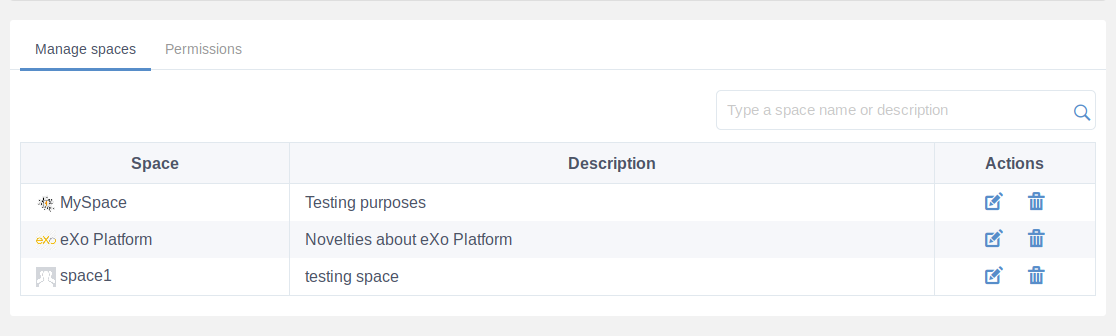
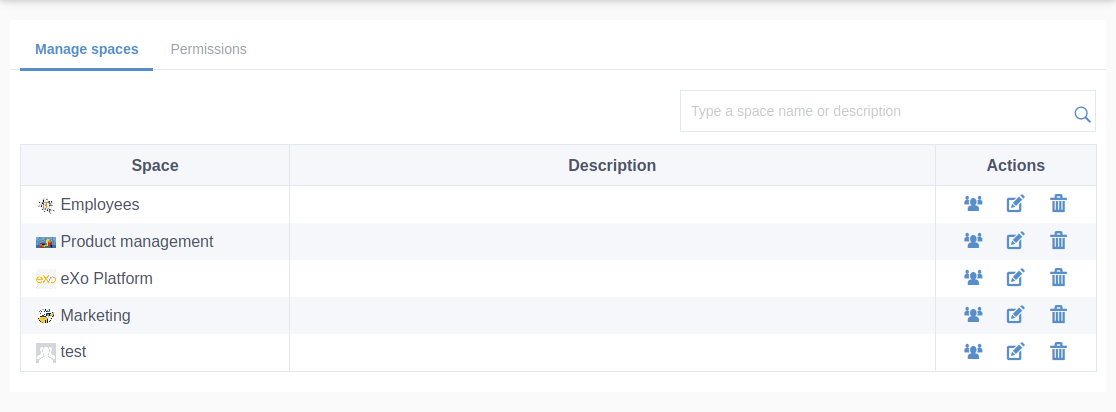
DOC-4367: Add documentation for Group binding drawer

diff --git a/docs/Administration.rst b/docs/Administration.rst
@@ -2481,25 +2481,15 @@ should be sent to you.
 Administrating spaces 
 ======================
 
-It is possible to restrict which users can create and/or manage spaces or use templates
-through an easy to use interface .
-
-|image305|
-
-.. note:: By default, only the super user (i.e. **root**) is allowed to create spaces and templates and only administrators (i.e.
-          ``*:/platform/administrators``) are allowed to manage spaces and templates.
-          
 The spaces administration interface is accessible via the menu Administration --> Spaces.
 
 |image306|
 
-This Spaces menu contains two choices:
+This Spaces menu allows you, as an administrator to:
 
-- "Manage Templates" : Lets an administrator display all space templates available 
-- "Manage Spaces" : Lets an administrator configure permissions for who can :ref:`Create <Create-Space>` or :ref:`Manage <AdministratingSpaces.ManageSpaces>` spaces.
-
-
-
+- Access and display all the available spaces templates via the menu "Manage Templates".
+- Configure and manage permissions for who can :ref:`Create <Create-Space>` or 
+  :ref:`Manage <AdministratingSpaces.ManageSpaces>` spaces via the menu "Manage Spaces".
 
 
 Manage Templates
@@ -2524,27 +2514,29 @@ All templates are presented in a table with:
 Manage Spaces
 ~~~~~~~~~~~~~~~~~~
 
+It is possible to restrict which users can create and/or manage spaces through an easy to use interface .
+
+|image305|
+
+.. note:: By default, only the super user (i.e. **root**) is allowed to create spaces and templates and only administrators (i.e.
+          ``*:/platform/administrators``) are allowed to manage spaces and templates.
+
 This interface contains two tabs:
 
-- "Manage spaces" tab displays the list of spaces and the corresponding actions: edit and delete.
-- "Permissions" tab displays the list of groups who can :ref:`Create <Create-Space>` or :ref:`Manage <AdministratingSpaces.ManageSpaces>` spaces. 
-
-     
-Spaces administration interface allows to :     
-
--  :ref:`Manage spaces <AdministratingSpaces.ManageSpaces>`
--  :ref:`Change permissions <AdministratingSpaces.Permissions>`
+- :ref:`Manage spaces <AdministratingSpaces.ManageSpaces>` tab displays the list of spaces and the corresponding actions: edit, delete and Space binding.
+- :ref:`Permissions <AdministratingSpaces.Permissions>` tab displays the list of groups who can :ref:`Create <Create-Space>` or :ref:`Manage <AdministratingSpaces.ManageSpaces>` spaces. 
 
 .. _AdministratingSpaces.ManageSpaces:
 
 Manage spaces tab
-~~~~~~~~~~~~~~~~~~
+-------------------
 
 |image308|
 
 The "Manage spaces" tab can be seen by users belonging to any group listed in 
 the "Manage spaces" permission of the :ref:`Permissions tab <AdministratingSpaces.Permissions>`. 
 Users with this permission are allowed to edit or delete any space in the platform.
+They are also allowed to add groups binding to any space.
 
 |image307|
 
@@ -2558,9 +2550,10 @@ by the property :ref:`exo.social.spaces.administrators <SpacesAdministration>` i
 .. note:: If the permission is neither defined through the interface nor by configuration, only administrators are
           allowed to access the Manage spaces tab.
           
+.. _EditSpace:
 
 Edit space
------------
+^^^^^^^^^^^^
 
 Users granted with the "Manage Spaces" permission, can edit any space settings by clicking the edit icon |image309| of a specific space.
 The Space Settings page of the target space is then opened in another browser tab.
@@ -2576,8 +2569,10 @@ section for more details.
 
 .. tip: You can find :ref:`here <Manage-Space-Settings>` the possible actions for a space's manager.
 
+.. _DeleteSpace:
+
 Delete space
---------------
+^^^^^^^^^^^^^
 
 Users granted with the Manage Spaces permission, can also :ref:`delete <Delete-Space>` any space of 
 the platform; even the spaces where they are neither a manager nor a member.
@@ -2595,10 +2590,32 @@ A confirmation popup appears to confirm deletion of the space or to cancel
 
 .. warning:: When deleting a space, all its data is also removed and can't be recovered.
 
+.. _BindGroupToSpace:
+
+Space binding
+^^^^^^^^^^^^^^
+
+You can, as an administrator or a :ref:`spaces manager <AdministratingSpaces.ManageSpaces>` member, bind groups to a space
+i.e. add all their members to the space.
+To do so, you should click on the "Space binding" icon |image354|.
+
+A drawer "Add Binding" appears:
+
+|image355|
+
+The drawer contains these components:
+
+-  A text field allowing you to type groups names
+-  "Select from list" icon allowing to open a second level drawer
+-  Bound groups section listing the already bound groups to the space
+-  "Apply" button which remains in disabled status until at least one group is selected
+-  "Cancel" button allowing to clear the text field and close the drawer
+-  A cross icon to close the drawer
+
 .. _AdministratingSpaces.Permissions:
 
 Permissions tab
-~~~~~~~~~~~~~~~~
+-----------------
 
 |image318|
 
@@ -5615,3 +5632,5 @@ The following image shows the screen when an anonymous user accesses
 .. |image351| image:: images/sharenews/template_selector.png
 .. |image352| image:: images/sharenews/header_block.png
 .. |image353| image:: images/sharenews/show_in_page.png
+.. |image354| image:: images/platform/SpaceBindingIcon.png
+.. |image355| image:: images/platform/AddBindingDrawer.png
